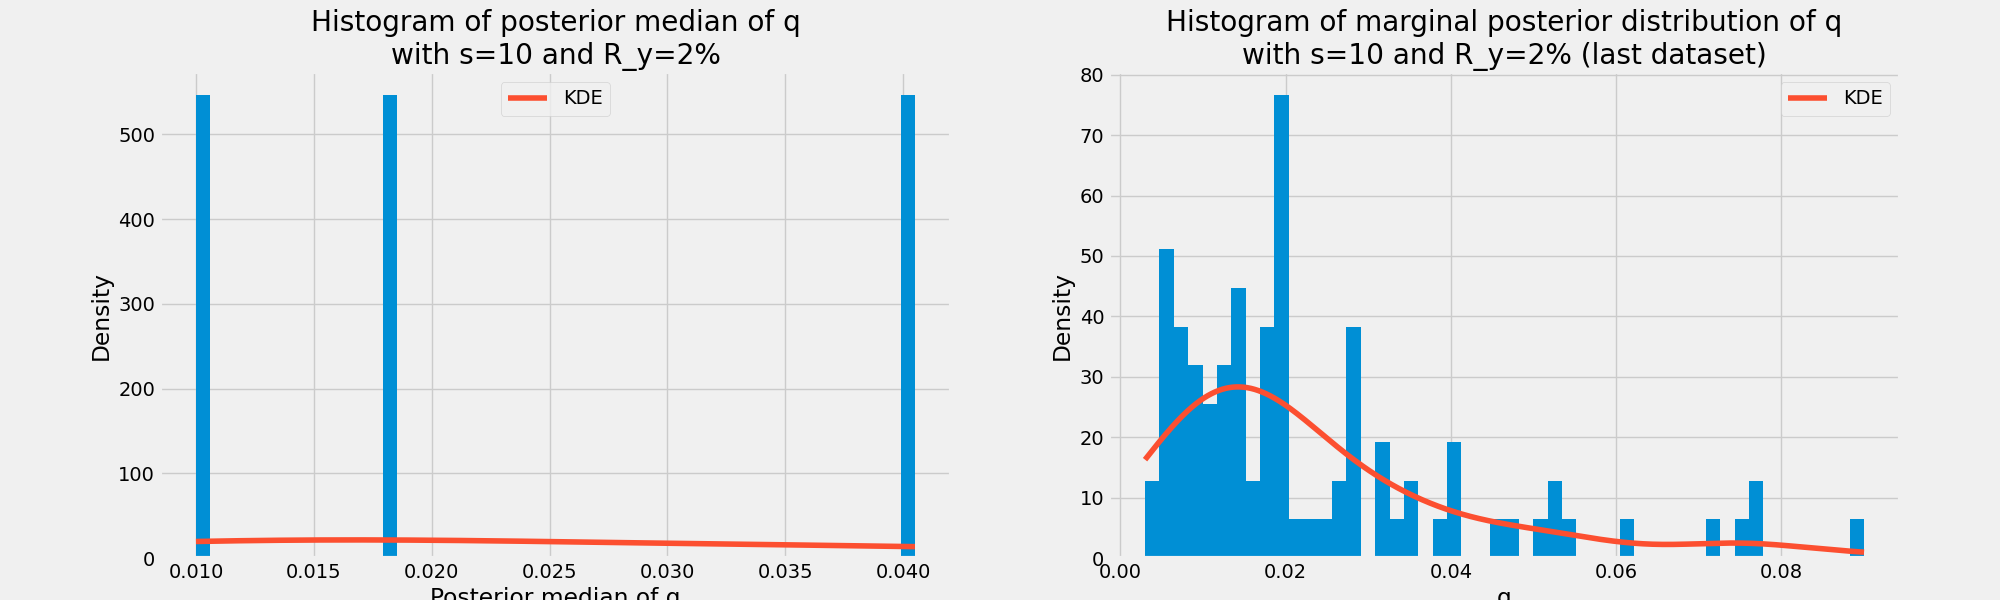
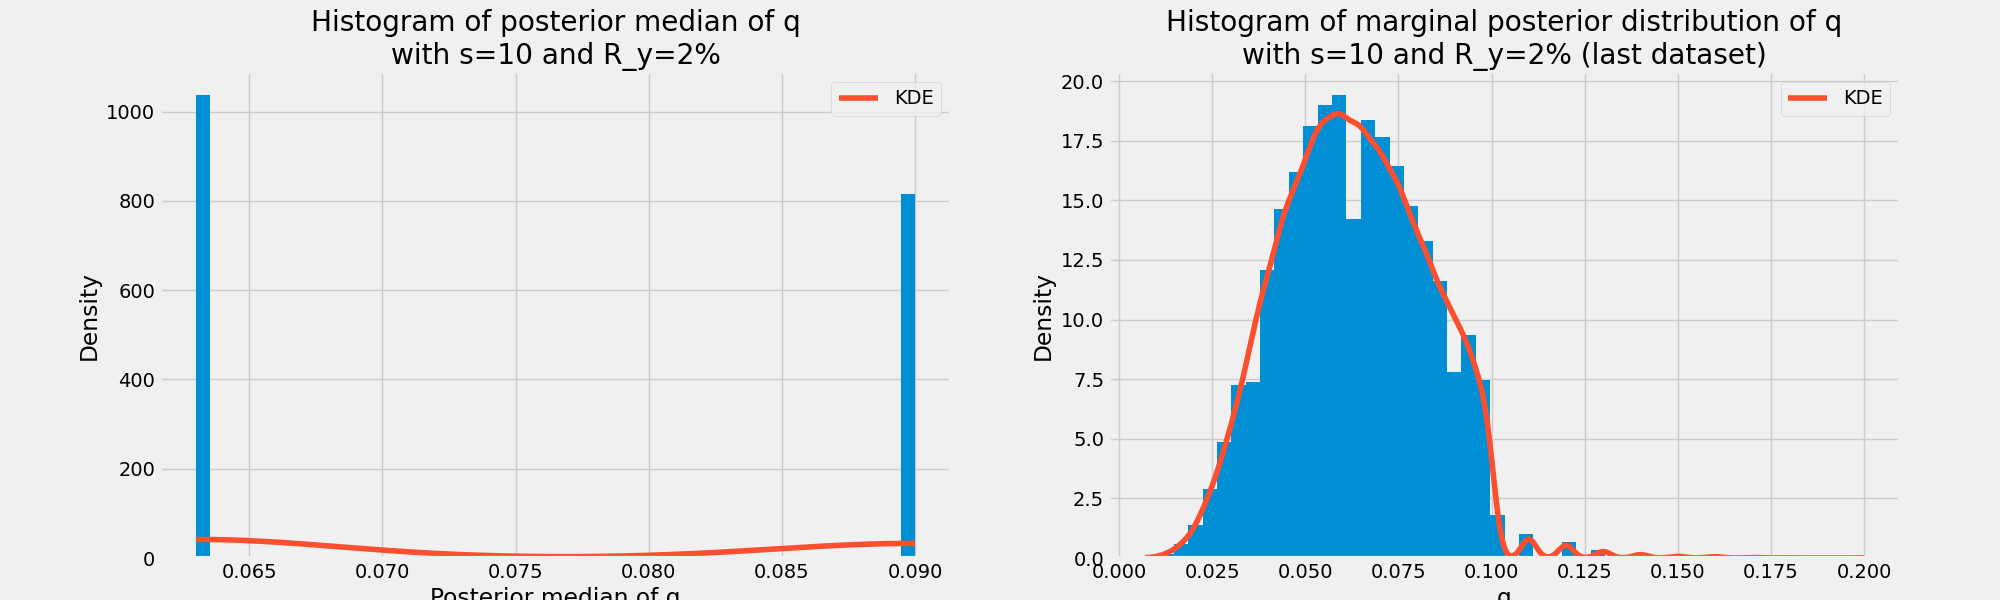
Add new plots

diff --git a/assignment2_numba.py b/assignment2_numba.py
@@ -85,17 +85,7 @@ def posterior_R2_q(R2, q, beta, vx, sigma2, z, a=1, b=1, A=1, B=1, k=100):
         * (1 - q) ** (k - s + b - 1)
         * R2 ** (A - 1 - s / 2)
         * (1 - R2) ** (s / 2 + B - 1)
-    ).item()
-
-
-@njit
-def compute_posterior_R2_q(X, z, beta, sigma2, grid):
-    vx = compute_vx(X)
-    posterior = np.zeros(grid.shape[0])
-    for i in range(grid.shape[0]):
-        posterior[i] = posterior_R2_q(grid[i, 0], grid[i, 1], beta, vx, sigma2, z)
-    posterior /= np.sum(posterior)
-    return posterior
+    )
 
 
 @jit
@@ -108,18 +98,20 @@ def sample_joint_R2_q(X, z, beta, sigma2):
             np.arange(0.9, 0.999, 0.001),
         ]
     )
-    grid = np.array(np.meshgrid(x, x)).T.reshape(-1, 2)
+    Rs, qs = np.meshgrid(x, x)
+    vx = compute_vx(X)
 
     # Compute posterior
-    posterior = compute_posterior_R2_q(X, z, beta, sigma2, grid)
+    posterior = posterior_R2_q(Rs, qs, beta, vx, sigma2, z)
+    posterior /= np.sum(posterior)
 
     # Plot posterior
     # plt.contourf(Rs, qs, posterior)
     # plt.show()
 
     # Sample R2 and q
-    idx = np.random.choice(np.arange(posterior.shape[0]), p=posterior)
-    R2, q = grid[idx, 0], grid[idx, 1]
+    R2 = np.random.choice(Rs.flatten(), p=posterior.flatten())
+    q = np.random.choice(qs.flatten(), p=posterior.flatten())
 
     return R2, q
 
@@ -257,7 +249,7 @@ def sample_beta(X, eps, beta, R2, q, sigma2, z, k=100):
 def one_gibbs_iteration(X, eps, R2, q, z, sigma2, beta):
     """Run one iteration of the Gibbs sampler"""
     R2, q = sample_joint_R2_q(X, z, beta, sigma2)
-    z = sample_z(X, eps, beta, z, R2, q)
+    # z = sample_z(X, eps, beta, z, R2, q)
     sigma2 = sample_sigma2(X, eps, beta, R2, q, z)
     beta = sample_beta(X, eps, beta, R2, q, sigma2, z)
     # print(f"R2={R2:.3f}, q={q:.3f}, sigma2={sigma2:.3f}")
